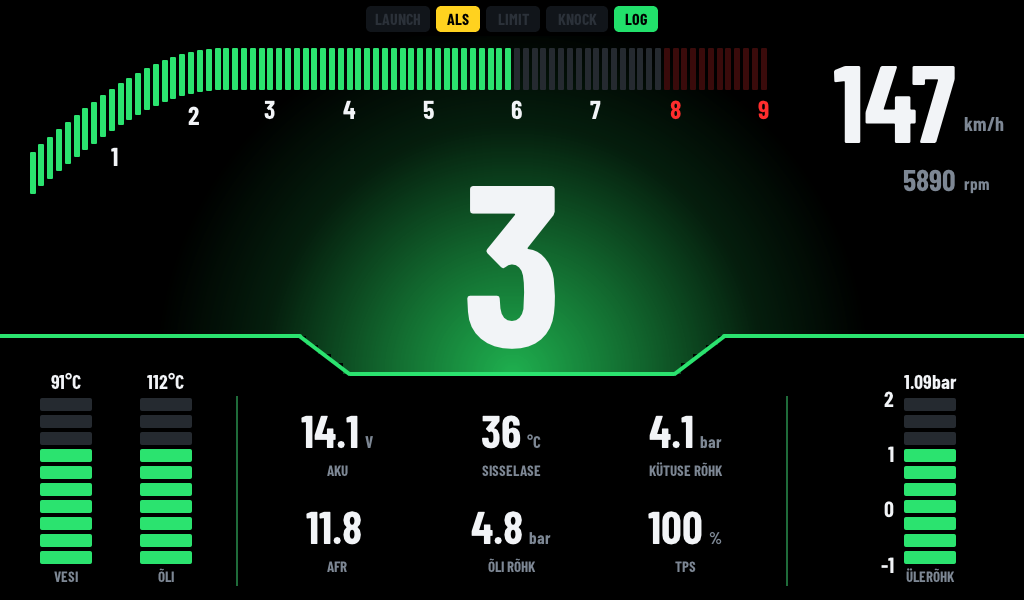
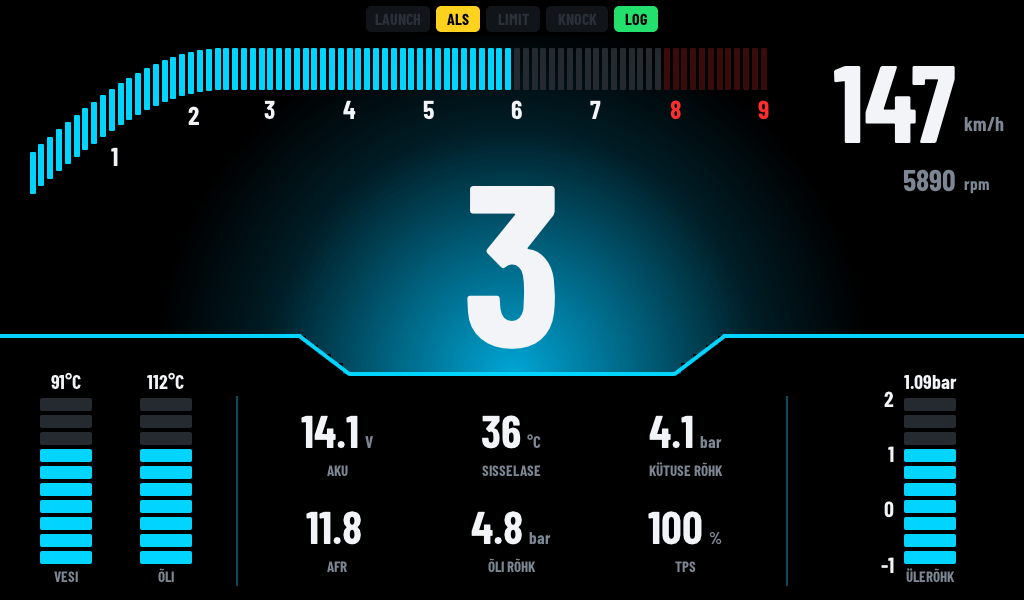
TÄNAV view: use the shared accent blue instead of green

diff --git a/main/page_street.c b/main/page_street.c
@@ -1,6 +1,6 @@
 /*
  * Vaade TÄNAV: vasakult üles kaarduv astmeline tahhomeeter, kiirus paremal üleval,
- * suur käik rohelises kumas, roheline joon "sälguga", all segmentribad ja 6 väärtust.
+ * suur käik sinises kumas, sinine joon "sälguga", all segmentribad ja 6 väärtust.
  */
 #include <math.h>
 #include <stdio.h>
@@ -16,15 +16,15 @@
 #define RAMP_SEGS 22       /* mitu segmenti kaardub üles */
 #define RAMP_H    104
 
-#define LINE_Y    336      /* roheline joon */
+#define LINE_Y    336      /* sinine joon */
 #define NOTCH_Y   374
 #define STACK_N   10
 #define N_GLOW    5        /* 1 suur kast + 4 riba sälgu sees */
 #define SUN_Y     NOTCH_Y  /* kuma keskpunkt */
 #define SUN_R     360      /* kuma raadius */
 
-#define G_LINE    lv_color_hex(0x2BE36F)
-#define G_DIM     lv_color_hex(0x1F6B3A)
+#define G_LINE    C_ACCENT                 /* sama sinine nagu teistes vaadetes */
+#define G_DIM     lv_color_hex(0x0F4C5C)
 #define C_SEG_OFF lv_color_hex(0x252A30)
 
 static const dash_tile_t GRID[] = DASH_STREET_GRID;
@@ -170,7 +170,7 @@ static void create(lv_obj_t *scr)
         gly[k] = y0;
         p.glow[k] = dash_box(scr, inset, y0, W - 2 * inset, k == N_GLOW - 1 ? NOTCH_Y - y0 : strip_h, C_BG, 0);
     }
-    static const uint32_t GC[3] = { 0x1FB04F, 0xA01C1C, 0x2F7BFF };
+    static const uint32_t GC[3] = { 0x00A6D6, 0xA01C1C, 0x2F7BFF };
     for (int k = 0; k < N_GLOW; k++) {
         int rx = W / 2 - glx[k], ry = SUN_Y - gly[k];
         for (int c = 0; c < 3; c++) {
@@ -282,7 +282,7 @@ static void update(const dash_state_t *s)
     dash_set_text_if(p.gear, p.gear_txt, sizeof(p.gear_txt), buf);
     int8_t gs = s->flashing ? (s->blink_fast ? 2 : 1) : 0;
     if (gs != p.glow_st) {
-        /* 0 roheline, 1 punane, 2 sinine */
+        /* 0 sinine (tavaline), 1 punane, 2 tugev sinine (shift) */
         int c = gs == 2 ? 2 : gs == 1 ? 1 : 0;
         for (int k = 0; k < N_GLOW; k++) lv_obj_set_style_bg_grad(p.glow[k], &s_grad[k][c], 0);
         p.glow_st = gs;

diff --git a/main/dash_config.h b/main/dash_config.h
@@ -78,7 +78,7 @@ typedef struct {
  *   0 RACE    – shift lightid, segmenttahhomeeter, 14 näidikut
  *   1 KELLAD  – kaks ümarat kella (pöörded + kiirus), keskel põhinäidud
  *   2 KAAR    – suur kaartahhomeeter, kiirus keskel, 6 näidikut külgedel
- *   3 TÄNAV   – kaardus astmeline tahhomeeter, suur käik rohelises kumas, segmentribad
+ *   3 TÄNAV   – kaardus astmeline tahhomeeter, suur käik sinises kumas, segmentribad
  *   4 ANDMED  – kõik väärtused koos min/max tippudega
  */
 #define DASH_PAGE_FADE_MS  300   /* vaate vahetuse üleminek (tumeneb + heleneb), 0 = kohe */
